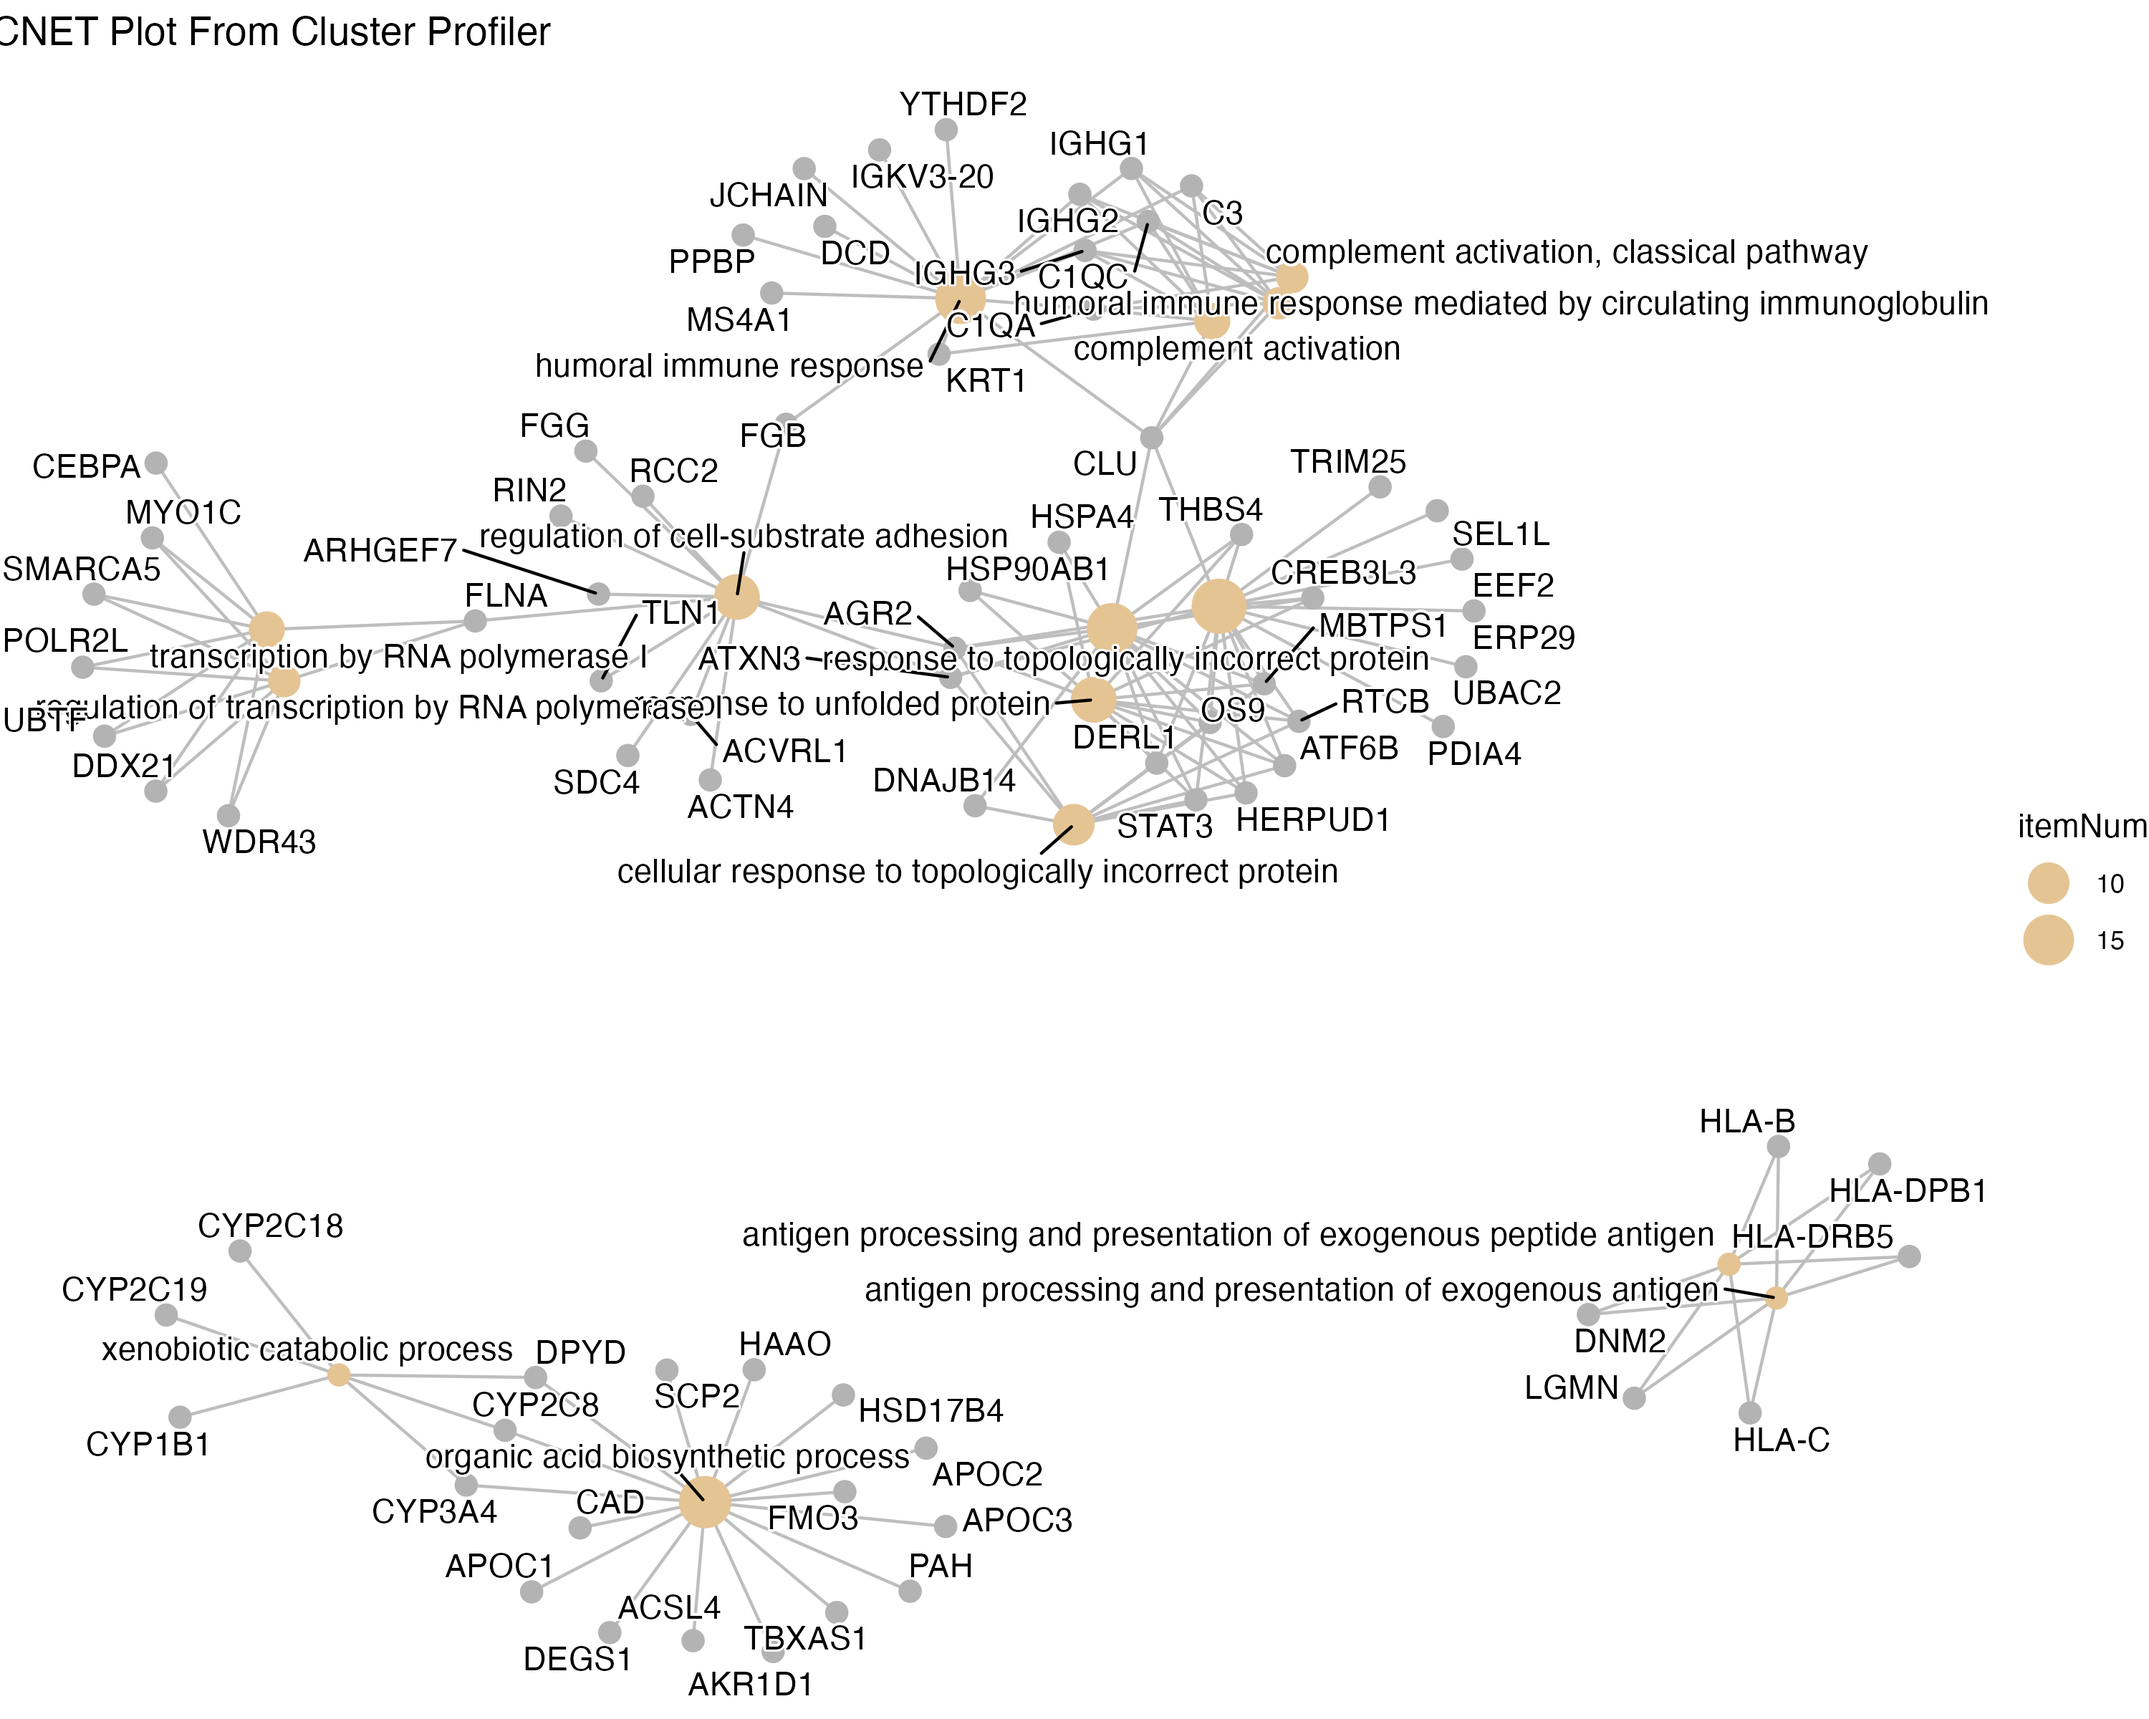
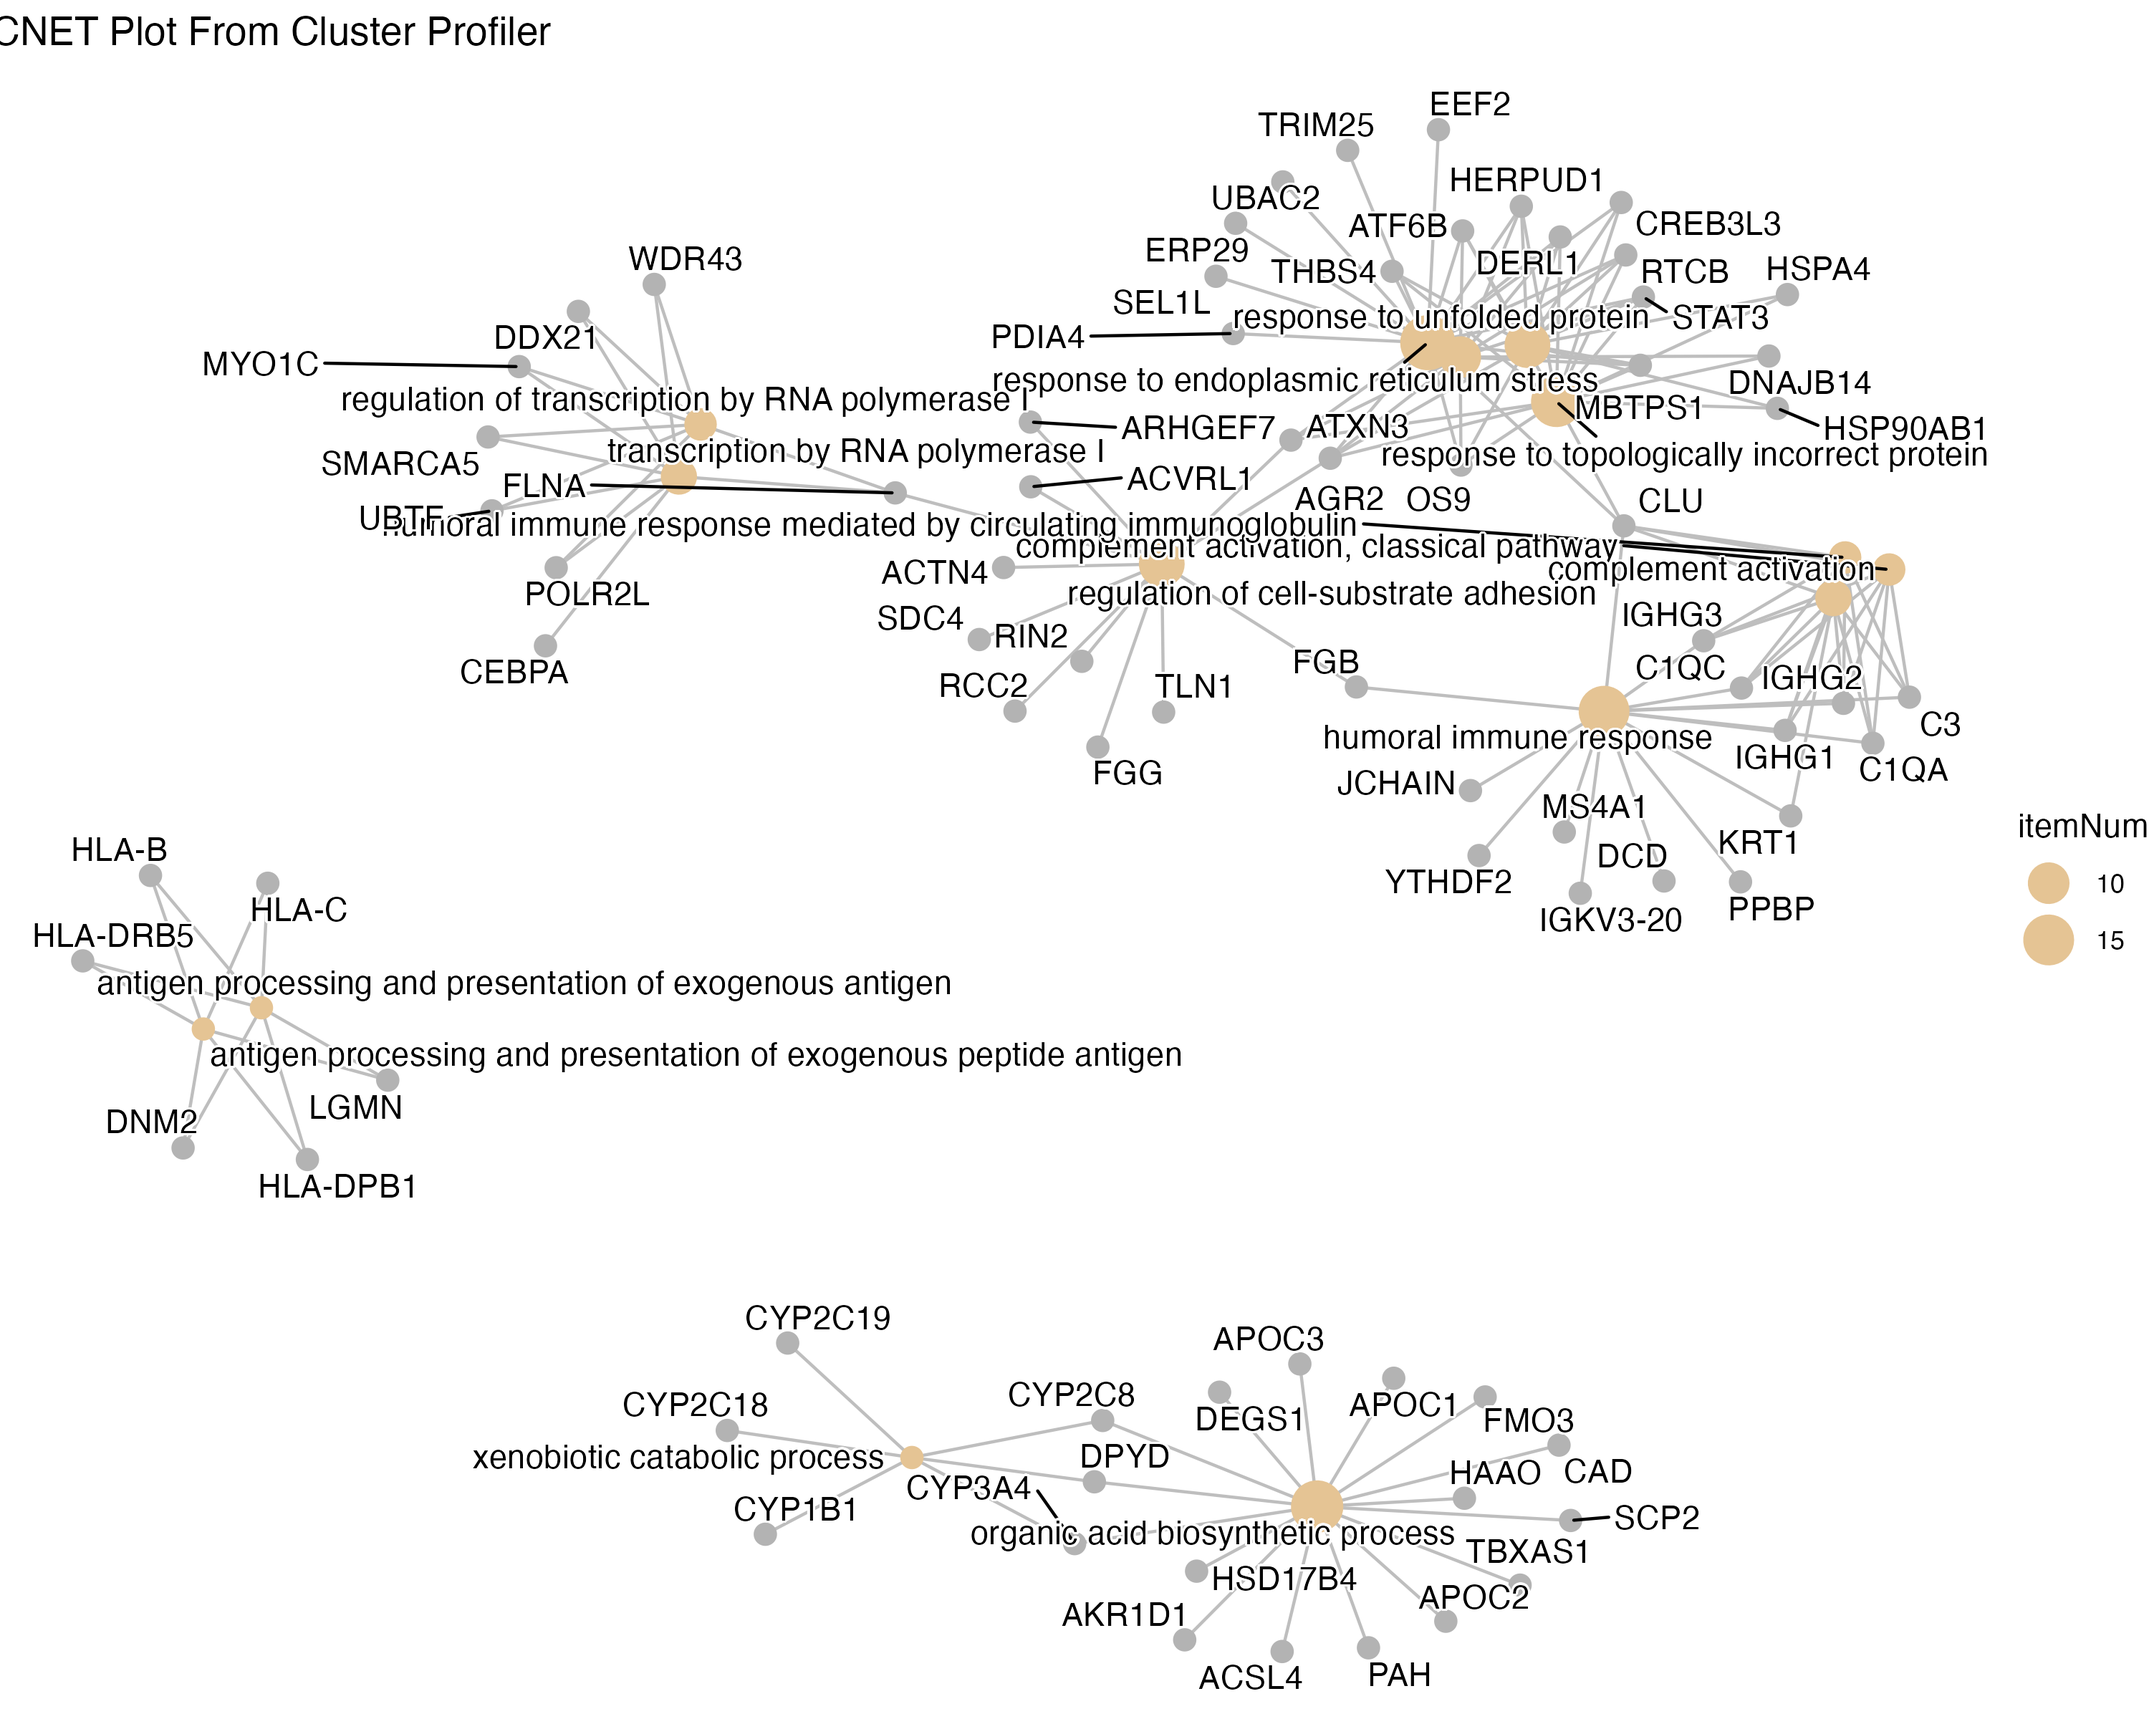
fixed email

diff --git a/docs/projects/sHLA_covid_peptides.html b/docs/projects/sHLA_covid_peptides.html
@@ -109,7 +109,7 @@ pre > code.sourceCode > span > a:first-child::before { text-decoration: underlin
 }</script>
 
 
-<link rel="stylesheet" href="profile_style.css">
+<link rel="stylesheet" href="../styles.css">
 <meta property="og:title" content="Final Report: Looking for COVID Pieces in Plasma – My Research Profile">
 <meta property="og:description" content="Research profile and project portfolio">
 <meta property="og:image" content="https://silvanoross.github.io/silvano_ross.github.io/photos/R_final_schematic.png">
@@ -460,7 +460,8 @@ Parsing results... Done.</code></pre>
 </div>
 <section id="top-15-most-abundant-peptides-in-covid-sample" class="level3">
 <h3 class="anchored" data-anchor-id="top-15-most-abundant-peptides-in-covid-sample">Top 15 Most Abundant Peptides in COVID Sample</h3>
-<p>####Kegg Pathways for Abundant Peptides</p>
+<section id="kegg-pathways-for-abundant-peptides" class="level4">
+<h4 class="anchored" data-anchor-id="kegg-pathways-for-abundant-peptides">Kegg Pathways for Abundant Peptides</h4>
 <div class="cell">
 <div class="code-copy-outer-scaffold"><div class="sourceCode cell-code" id="cb12"><pre class="sourceCode r code-with-copy"><code class="sourceCode r"><span id="cb12-1"><a href="#cb12-1" aria-hidden="true" tabindex="-1"></a><span class="co"># view kegg pathways of enriched df</span></span>
 <span id="cb12-2"><a href="#cb12-2" aria-hidden="true" tabindex="-1"></a><span class="fu">library</span>(dplyr)</span>
@@ -495,6 +496,7 @@ Parsing results... Done.</code></pre>
 <div class="code-copy-outer-scaffold"><div class="sourceCode cell-code" id="cb13"><pre class="sourceCode r code-with-copy"><code class="sourceCode r"><span id="cb13-1"><a href="#cb13-1" aria-hidden="true" tabindex="-1"></a>kegg_abundant <span class="sc">|&gt;</span></span>
 <span id="cb13-2"><a href="#cb13-2" aria-hidden="true" tabindex="-1"></a>  <span class="fu">ggsave</span>(<span class="at">filename =</span> <span class="st">"plots/kegg_abundant.png"</span>, <span class="at">width =</span> <span class="dv">8</span>, <span class="at">height =</span> <span class="dv">6</span>, <span class="at">dpi =</span> <span class="dv">300</span>)</span></code></pre></div><button title="Copy to Clipboard" class="code-copy-button"><i class="bi"></i></button></div>
 </div>
+</section>
 <section id="reactomes-for-most-abundant-peptides" class="level4">
 <h4 class="anchored" data-anchor-id="reactomes-for-most-abundant-peptides">Reactomes for Most Abundant Peptides</h4>
 <div class="cell">

diff --git a/docs/index.html b/docs/index.html
@@ -72,7 +72,7 @@ ul.task-list li input[type="checkbox"] {
 }</script>
 
 
-<link rel="stylesheet" href="profile_style.css">
+<link rel="stylesheet" href="styles.css">
 <meta property="og:title" content="Silvano Ross – My Research Profile">
 <meta property="og:description" content="Research profile and project portfolio">
 <meta property="og:image" content="https://silvanoross.github.io/silvano_ross.github.io/MyProfilePic.JPG">
@@ -138,14 +138,15 @@ ul.task-list li input[type="checkbox"] {
   <a href="https://github.com/silvanoross" class="about-link" rel="" target="">
      <span class="about-link-text">GitHub</span>
   </a>
-  <a href="/silvano-ross@ou.edu" class="about-link" rel="" target="">
-     <span class="about-link-text">email</span>
+  <a href="mailto:silvano-ross@ou.edu" class="about-link" rel="" target="">
+    <i class="bi bi-email"></i>
+     <span class="about-link-text">Email</span>
   </a>
 </div>
   </div>
   <div class="about-contents"><main class="content" id="quarto-document-content">
 <section id="greetings-fellow-scientists" class="level1 columnpage">
-<h1>Greetings fellow scientists!</h1>
+<h1>Greetings fellow scientists 🧬</h1>
 <p>Welcome to my research profile website. I’m a student in the Intro to Reproducible Data Analysis Using R course. Lindsay and Eleana are awesome!</p>
 <section id="about-me" class="level2">
 <h2 data-anchor-id="about-me">About Me</h2>

diff --git a/docs/styles.css b/docs/styles.css
@@ -25,7 +25,7 @@ h2 {
 }
 
 h3 {
-  color: #e9ba89; /* muted teal */
+  color: #afb7bd#; /* muted teal */
   margin-top: 1.5em;
   font-weight: 600;
 }
